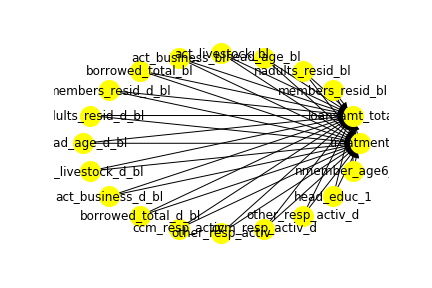
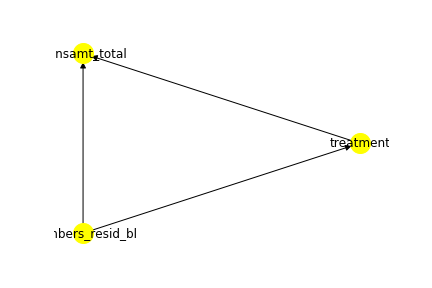
tested a few things in script. shap values debugging looks to time consuming.

Changed region(s): [[0.1204, 0.125, 0.9028, 0.8438]]

diff --git a/code/causal_forests_test/causal_forest_tests.py b/code/causal_forests_test/causal_forest_tests.py
@@ -19,15 +19,15 @@ import shap
 from econml.dml import CausalForestDML
 
 # read Stata .dta file 
-df = pd.read_stata("data_rep.dta")
+df = pd.read_stata("data_rep.dta")[:100]
 
 # set variables 
 treatment = 'treatment'
 outcome = 'loansamt_total'
-covariates = ["members_resid_bl", "nadults_resid_bl", "head_age_bl", "act_livestock_bl", "act_business_bl",
-              "borrowed_total_bl", "members_resid_d_bl", "nadults_resid_d_bl", "head_age_d_bl",
-              "act_livestock_d_bl", "act_business_d_bl", "borrowed_total_d_bl", "ccm_resp_activ",
-              "other_resp_activ", "ccm_resp_activ_d", "other_resp_activ_d", "head_educ_1", "nmember_age6_16"]
+covariates = ["members_resid_bl"]#, "nadults_resid_bl", "head_age_bl", "act_livestock_bl", "act_business_bl",
+              # "borrowed_total_bl", "members_resid_d_bl", "nadults_resid_d_bl", "head_age_d_bl",
+              # "act_livestock_d_bl", "act_business_d_bl", "borrowed_total_d_bl", "ccm_resp_activ",
+              # "other_resp_activ", "ccm_resp_activ_d", "other_resp_activ_d", "head_educ_1", "nmember_age6_16"]
 
 # build causal graph with dowhy 
 model = CausalModel(
@@ -88,17 +88,38 @@ causal_forest.const_marginal_ate(X_test)
 
 
 # fit causal forest with default parameters 
-causal_forest = CausalForestDML()
-causal_forest.fit(Y, T, X=X, W=W)
+# causal_forest = CausalForestDML()
+# causal_forest.fit(Y, T, X=X, W=W)
 
 # calculate shap values of causal forest model 
 shap_values = causal_forest.shap_values(X)
 # plot shap values 
-# shap.summary_plot(shap_values['Y0']['T0'])
+shap.summary_plot(shap_values['Y0']['T0'])
 # shap.summary_plot(shap_values.value[instance,feature])
-# shap.plots.beeswarm(shap_values, order=shap_values.abs.max(0))
 
+
+import xgboost
+import shap
+
+# train XGBoost model
+# X,y = shap.datasets.adult()
+model = xgboost.XGBClassifier().fit(X, Y)
+
+# compute SHAP values
+explainer = shap.Explainer(model, X)
+shap_values = explainer(X)
+
+
+shap.plots.beeswarm(shap_values)
+
+
+
+
+'''
+
+1. use ohter predictor and compare formats
 
 schauen wo das problem ist, evtl kleiners bsp; einmal weniger daten
 einmal anderer predictor https://shap.readthedocs.io/en/latest/example_notebooks/api_examples/plots/beeswarm.html
 
+'''
